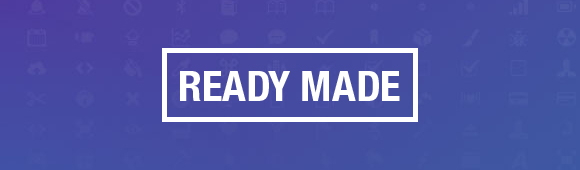
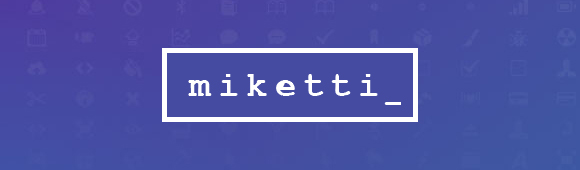
mail template update

Changed region(s): [[0.3103, 0.4118, 0.7138, 0.6176]]

diff --git a/Content/Templates/mail.htm b/Content/Templates/mail.htm
@@ -2,7 +2,7 @@
 <html xmlns="http://www.w3.org/1999/xhtml">
 <head>
 <meta http-equiv="Content-Type" content="text/html; charset=utf-8" />
-<title>Miketti.com - создание аналогов и копий сайтов</title>
+<title>Miketti - создание аналогов и копий сайтов</title>
 <style type="text/css">
 body { margin: 0; padding: 0; font: normal 12px Arial, Helvetica, sans-serif; background: #3861a3; border-collapse: separate !important; line-height: 12px; font-size: 12px; }
 img { border: 0; border-collapse: separate; }
@@ -29,17 +29,17 @@ em { color: #e13d3d; }
 <body style="margin: 0; padding: 0; font: normal 12px Arial, Helvetica, sans-serif; background: #3861a3; border-collapse: separate !important; line-height: 12px; font-size: 12px;">
 <table width="720" border="0" cellpadding="0" cellspacing="0" bgcolor="#3861a3" style="background: #3861a3;">
     <tr>
-        <td style="font-size: 0%; vertical-align: top;" width="60"><img src="http://www.miketti.com/Content/Templates/left.jpg" alt="ReadyMade" width="70" height="360" align="top" /></td>
-        <td valign="top" width="580" style="background: #ffffff; margin: 0px 0px 0px 0px; text-align: left; border-collapse: separate;" class="wrap" bgcolor="#ffffff"><a href="http://www.miketti.com/"><img src="http://www.miketti.com/Content/Templates/header.jpg" width="580" height="170" alt="ReadyMade" align="top" style="text-decoration: underline; outline: none; color: #2883C4; border-collapse: separate; display: inline-block;"/></a>
+        <td style="font-size: 0%; vertical-align: top;" width="60"><img src="http://www.miketti.ru/Content/Templates/left.jpg" alt="Miketti" width="70" height="360" align="top" /></td>
+        <td valign="top" width="580" style="background: #ffffff; margin: 0px 0px 0px 0px; text-align: left; border-collapse: separate;" class="wrap" bgcolor="#ffffff"><a href="http://www.miketti.ru/"><img src="http://www.miketti.ru/Content/Templates/header.jpg" width="580" height="170" alt="Miketti" align="top" style="text-decoration: underline; outline: none; color: #2883C4; border-collapse: separate; display: inline-block;"/></a>
         <table width="100%" border="0" cellpadding="0" cellspacing="0" bgcolor="#f5f5f5" style="background: #f5f5f5;">
             <tr>
                 <td style="font-size: 0%; vertical-align: top;">
-                    <p class="paragraph" style="margin: 10px 15px 10px 15px; padding: 0px 0px 0px 0px; font-size: 12px; color: #000000; line-height: 20px; border-collapse: separate; font-weight: normal; " align="left"><strong>Miketti.com - создание аналогов и копий сайтов</strong></p>
+                    <p class="paragraph" style="margin: 10px 15px 10px 15px; padding: 0px 0px 0px 0px; font-size: 12px; color: #000000; line-height: 20px; border-collapse: separate; font-weight: normal; " align="left"><strong>Miketti - создание аналогов и копий сайтов</strong></p>
                 </td>
             </tr>
          </table>
         <h1 class="title1" style="color: #2883C4 !important; font-size: 23px; padding: 0; margin: 20px 15px 20px 15px; font-weight: normal; font-family: Tahoma, Arial, Helvetica, sans-serif; border-collapse: separate; line-height: 22px; " align="left">Здравствуйте!</h1>
-        <p class="paragraph" style="margin: 10px 15px 10px 15px; padding: 0px 0px 0px 0px; font-size: 12px; color: #000000; line-height: 20px; border-collapse: separate; font-weight: normal; " align="left">Ваше сообщение, отправленное с сайта <a href="http://www.miketti.com"  style="text-decoration: underline; outline: none; color: #2883C4; border-collapse: separate; display: inline-block;"><strong>www.miketti.com</strong></a> зарегистрировано</p>
+        <p class="paragraph" style="margin: 10px 15px 10px 15px; padding: 0px 0px 0px 0px; font-size: 12px; color: #000000; line-height: 20px; border-collapse: separate; font-weight: normal; " align="left">Ваше сообщение, отправленное с сайта <a href="http://www.miketti.ru"  style="text-decoration: underline; outline: none; color: #2883C4; border-collapse: separate; display: inline-block;"><strong>www.miketti.ru</strong></a> зарегистрировано</p>
 <p class="paragraph" style="margin: 10px 15px 10px 15px; padding: 0px 0px 0px 0px; font-size: 12px; color: #000000; line-height: 20px; border-collapse: separate; font-weight: normal; " align="left"><em style="color: #e13d3d; ">[%текст%]</em></p>
         <p class="paragraph" style="margin: 10px 15px 10px 15px; padding: 0px 0px 0px 0px; font-size: 12px; color: #000000; line-height: 20px; border-collapse: separate; font-weight: normal; " align="left">В ближайшее время для вас будет составлен и отправлен ответ</p>
         <table width="100%" border="0" cellpadding="0" cellspacing="0">
@@ -62,7 +62,7 @@ em { color: #e13d3d; }
                         <strong> &nbsp;4. &nbsp;</strong> Расчёт.<br />
 			<strong> &nbsp;5. &nbsp;</strong> Опционально - поддержка на абонементой основе.<br /></p>
                 </td> 
-              <td width="40%" align="right" style="font-size: 0%; vertical-align: middle; text-align: right;"><a href="http://www.miketti.com/"><img src="http://www.miketti.com/Content/Templates/banner2.jpg" width="183" height="300" alt="Elita" align="top" /></a></td>
+              <td width="40%" align="right" style="font-size: 0%; vertical-align: middle; text-align: right;"><a href="http://www.miketti.ru/"><img src="http://www.miketti.ru/Content/Templates/banner2.jpg" width="183" height="300" alt="Elita" align="top" /></a></td>
             </tr-->
 
          </table>
@@ -72,11 +72,11 @@ em { color: #e13d3d; }
         <p class="paragraph" style="margin: 10px 15px 10px 15px; padding: 0px 0px 0px 0px; font-size: 12px; color: #000000; line-height: 20px; border-collapse: separate; font-weight: normal; " align="left">Ваши данные <strong>не будут</strong> использоваться для несанционированных действий любого рода (в том числе рассылок). <br/></p>
 <p></p>
         <hr style="margin: 10px 15px 0px 15px; "/>
-          <p class="paragraph" style="margin: 10px 15px 10px 15px; padding: 0px 0px 0px 0px; font-size: 12px; color: #000000; line-height: 20px; border-collapse: separate; font-weight: normal; "  align="right">С уважением, ReadyMade <br />
-            <a href="http://www.miketti.com/">www.miketti.com</a><br />
-            <a href="mailto:info@miketti.com">info@miketti.com</a>
+          <p class="paragraph" style="margin: 10px 15px 10px 15px; padding: 0px 0px 0px 0px; font-size: 12px; color: #000000; line-height: 20px; border-collapse: separate; font-weight: normal; "  align="right">С уважением, Miketti <br />
+            <a href="http://www.miketti.ru/">www.miketti.ru</a><br />
+            <a href="mailto:info@miketti.ru">info@miketti.ru</a>
           </p></td>
-        <td style="font-size: 0%; vertical-align: top;" width="60"><img src="http://www.miketti.com/Content/Templates/right.jpg" width="70" height="360" alt="ReadyMade" align="top" /></td>
+        <td style="font-size: 0%; vertical-align: top;" width="60"><img src="http://www.miketti.ru/Content/Templates/right.jpg" width="70" height="360" alt="Miketti" align="top" /></td>
     </tr>
 <tr><td height="100"  bgcolor="#3861a3"></td></tr>
 </table>
